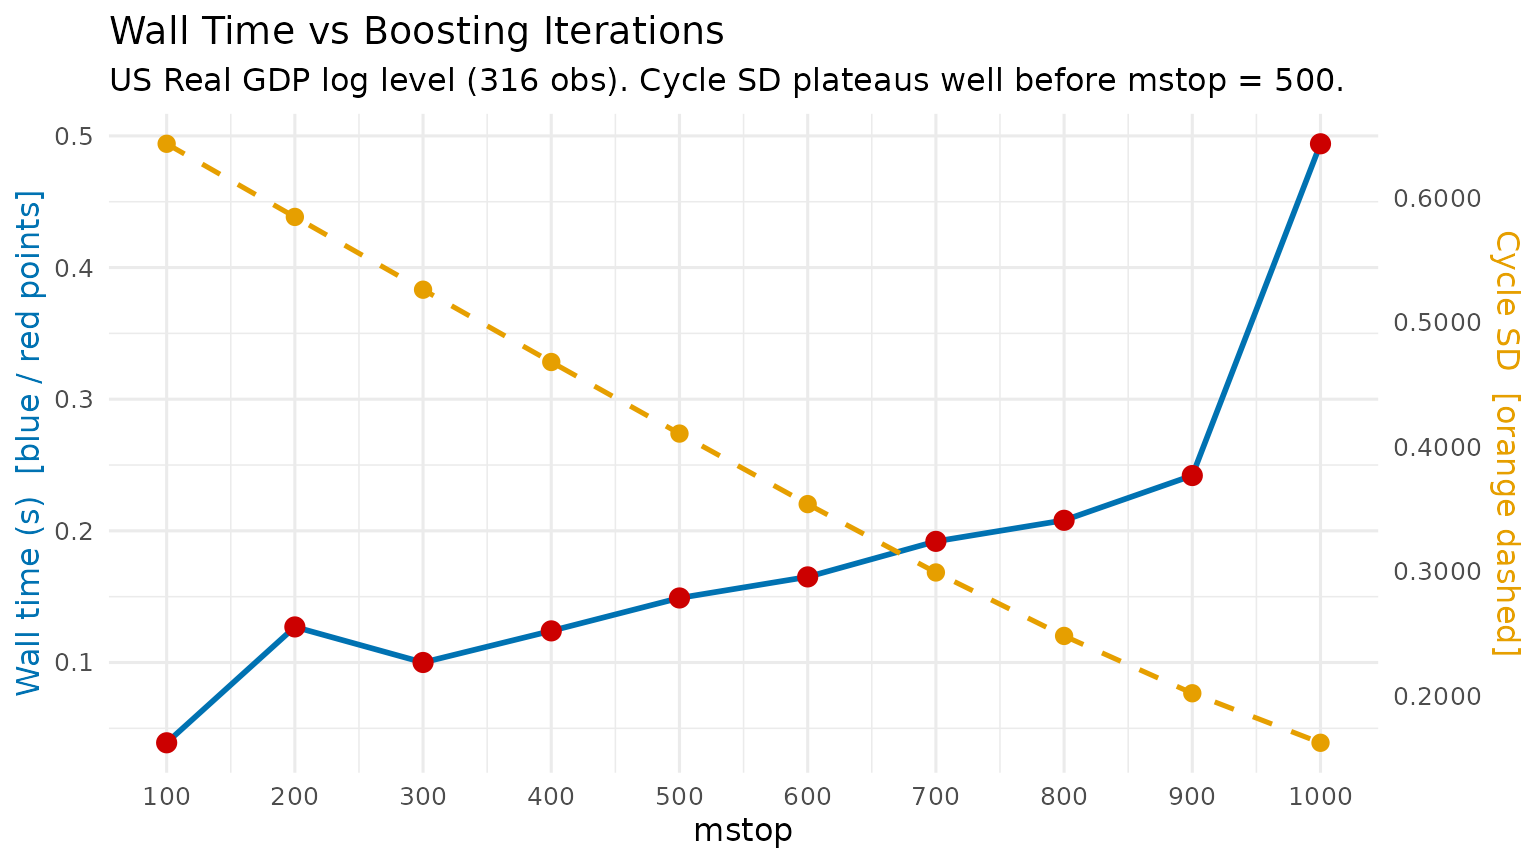
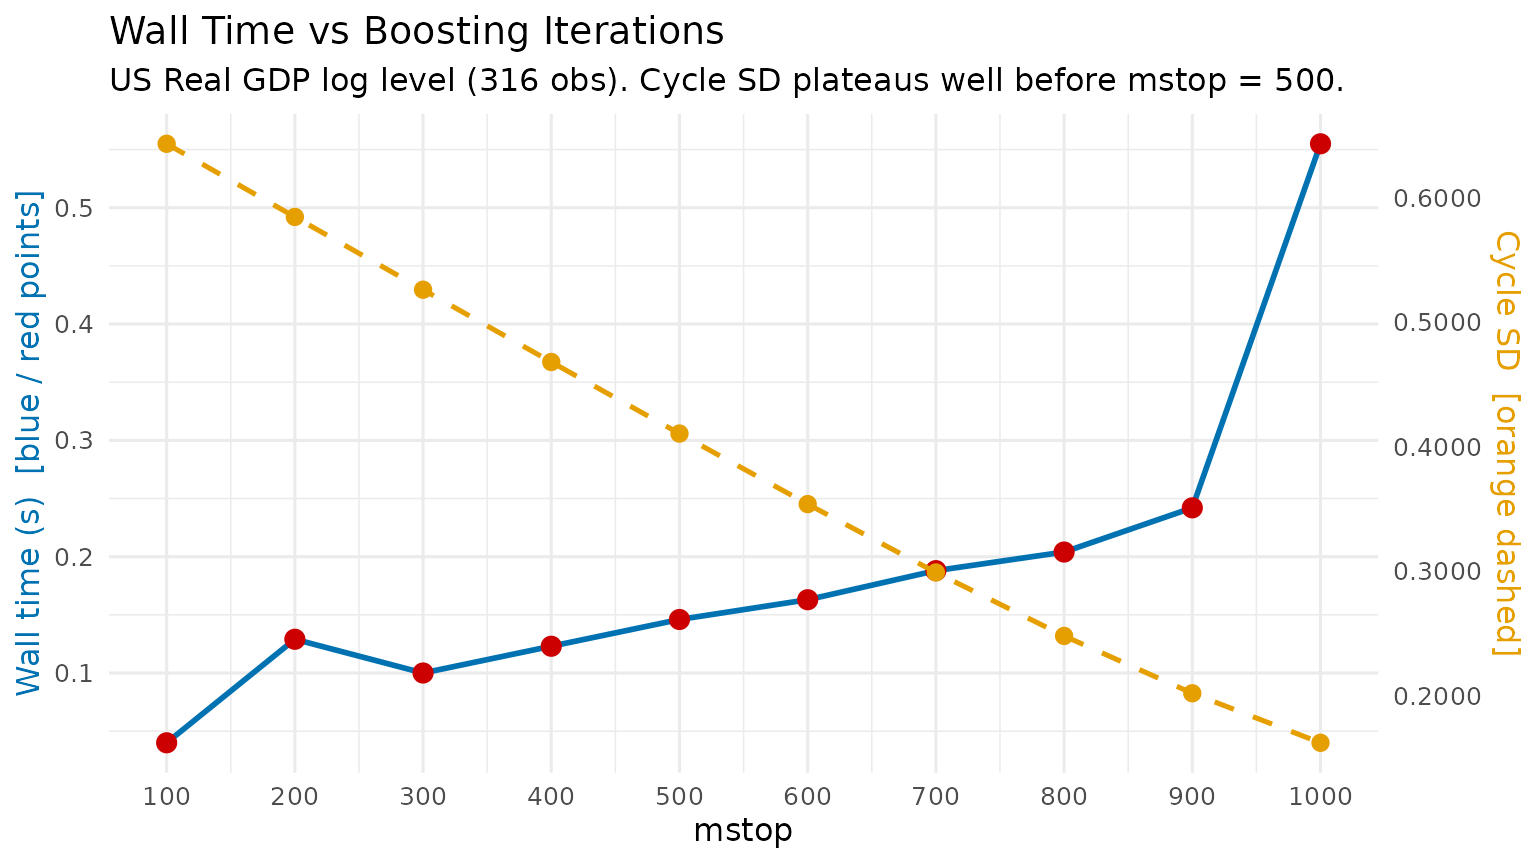
Deploying to gh-pages from @ michal0091/MacroFilters@e742c0e3e4cfbb66a2f1d4271f59a380dd16b52b 🚀

diff --git a/articles/tuning_mbh.html b/articles/tuning_mbh.html
@@ -25,7 +25,7 @@
 
     <a class="navbar-brand me-2" href="../index.html">MacroFilters</a>
 
-    <small class="nav-text text-muted me-auto" data-bs-toggle="tooltip" data-bs-placement="bottom" title="">0.0.0.9000</small>
+    <small class="nav-text text-muted me-auto" data-bs-toggle="tooltip" data-bs-placement="bottom" title="">0.1.0</small>
 
 
     <button class="navbar-toggler" type="button" data-bs-toggle="collapse" data-bs-target="#navbar" aria-controls="navbar" aria-expanded="false" aria-label="Toggle navigation">
@@ -336,12 +336,12 @@ boosting and the trend responds to the COVID shock.</li>
 <tbody>
 <tr class="odd">
 <td align="right">100</td>
-<td align="right">0.039</td>
+<td align="right">0.040</td>
 <td align="right">0.643260</td>
 </tr>
 <tr class="even">
 <td align="right">200</td>
-<td align="right">0.127</td>
+<td align="right">0.129</td>
 <td align="right">0.584503</td>
 </tr>
 <tr class="odd">
@@ -351,27 +351,27 @@ boosting and the trend responds to the COVID shock.</li>
 </tr>
 <tr class="even">
 <td align="right">400</td>
-<td align="right">0.124</td>
+<td align="right">0.123</td>
 <td align="right">0.467963</td>
 </tr>
 <tr class="odd">
 <td align="right">500</td>
-<td align="right">0.149</td>
+<td align="right">0.146</td>
 <td align="right">0.410462</td>
 </tr>
 <tr class="even">
 <td align="right">600</td>
-<td align="right">0.165</td>
+<td align="right">0.163</td>
 <td align="right">0.353805</td>
 </tr>
 <tr class="odd">
 <td align="right">700</td>
-<td align="right">0.192</td>
+<td align="right">0.188</td>
 <td align="right">0.298887</td>
 </tr>
 <tr class="even">
 <td align="right">800</td>
-<td align="right">0.208</td>
+<td align="right">0.204</td>
 <td align="right">0.247910</td>
 </tr>
 <tr class="odd">
@@ -381,7 +381,7 @@ boosting and the trend responds to the COVID shock.</li>
 </tr>
 <tr class="even">
 <td align="right">1000</td>
-<td align="right">0.494</td>
+<td align="right">0.555</td>
 <td align="right">0.162069</td>
 </tr>
 </tbody>

diff --git a/articles/introduction.html b/articles/introduction.html
@@ -25,7 +25,7 @@
 
     <a class="navbar-brand me-2" href="../index.html">MacroFilters</a>
 
-    <small class="nav-text text-muted me-auto" data-bs-toggle="tooltip" data-bs-placement="bottom" title="">0.0.0.9000</small>
+    <small class="nav-text text-muted me-auto" data-bs-toggle="tooltip" data-bs-placement="bottom" title="">0.1.0</small>
 
 
     <button class="navbar-toggler" type="button" data-bs-toggle="collapse" data-bs-target="#navbar" aria-controls="navbar" aria-expanded="false" aria-label="Toggle navigation">
@@ -207,7 +207,7 @@ and memory.</p>
 <span><span class="co">#&gt;    Observations : 100</span></span>
 <span><span class="co">#&gt;    Parameters   : lambda = 1600</span></span>
 <span><span class="co">#&gt;    Cycle range  : [-7.738, 9.143]  sd = 3.897</span></span>
-<span><span class="co">#&gt;    Compute time : 0.002 s</span></span></code></pre></div>
+<span><span class="co">#&gt;    Compute time : 0.003 s</span></span></code></pre></div>
 <p>The smoothing parameter
 <math display="inline" xmlns="http://www.w3.org/1998/Math/MathML"><semantics><mi>λ</mi><annotation encoding="application/x-tex">\lambda</annotation></semantics></math>
 is auto-selected from the series frequency via the Ravn-Uhlig (2002)
@@ -256,7 +256,7 @@ estimates by construction</p>
 <span><span class="co">#&gt;    Observations : 100</span></span>
 <span><span class="co">#&gt;    Parameters   : h = 8, p = 4</span></span>
 <span><span class="co">#&gt;    Cycle range  : [-13.41, 11.8]  sd = 7.212</span></span>
-<span><span class="co">#&gt;    Compute time : 0.000 s</span></span></code></pre></div>
+<span><span class="co">#&gt;    Compute time : 0.001 s</span></span></code></pre></div>
 <p>Note that the first
 <math display="inline" xmlns="http://www.w3.org/1998/Math/MathML"><semantics><mrow><mi>h</mi><mo>+</mo><mi>p</mi><mo>−</mo><mn>1</mn></mrow><annotation encoding="application/x-tex">h + p - 1</annotation></semantics></math>
 observations of the trend and cycle are <code>NA</code>, because there
@@ -466,7 +466,7 @@ dates.</p>
 <span><span class="co">#&gt;    Observations : 80</span></span>
 <span><span class="co">#&gt;    Parameters   : knots = 40, d = 2.789, mstop = 500, mstop_initial = 500, nu = 0.1, df = 4, select_mstop = FALSE</span></span>
 <span><span class="co">#&gt;    Cycle range  : [-26.64, 4.429]  sd = 4.087</span></span>
-<span><span class="co">#&gt;    Compute time : 0.124 s</span></span></code></pre></div>
+<span><span class="co">#&gt;    Compute time : 0.121 s</span></span></code></pre></div>
 <p><img src="introduction_files/figure-html/mbh-plot-1.png" class="r-plt" alt="" width="100%"></p>
 <hr>
 </div>
@@ -514,7 +514,7 @@ dates.</p>
 <span><span class="co">#&gt;    Observations : 80</span></span>
 <span><span class="co">#&gt;    Parameters   : knots = 40, d = 2.789, mstop = 500, mstop_initial = 500, nu = 0.1, df = 4, select_mstop = FALSE</span></span>
 <span><span class="co">#&gt;    Cycle range  : [-26.64, 4.429]  sd = 4.087</span></span>
-<span><span class="co">#&gt;    Compute time : 0.124 s</span></span></code></pre></div>
+<span><span class="co">#&gt;    Compute time : 0.121 s</span></span></code></pre></div>
 <p>The <code>print</code> method shows the method, the number of
 observations, the key parameters, the cycle range, and how long the
 filter took to run.</p>
@@ -549,7 +549,7 @@ filter took to run.</p>
 <span><span class="co">#&gt;  $ df            : int 4</span></span>
 <span><span class="co">#&gt;  $ select_mstop  : logi FALSE</span></span>
 <span><span class="co">#&gt;  $ boundary.knots: NULL</span></span>
-<span><span class="co">#&gt;  $ compute_time  : num 0.124</span></span></code></pre></div>
+<span><span class="co">#&gt;  $ compute_time  : num 0.121</span></span></code></pre></div>
 <p>The <code>meta</code> list stores every parameter used by the filter,
 making results fully reproducible from the object alone — no need to
 track arguments separately.</p>

diff --git a/reference/hp_filter.html b/reference/hp_filter.html
@@ -13,7 +13,7 @@ scales linearly in the number of observations."><meta property="og:image" conten
 
     <a class="navbar-brand me-2" href="../index.html">MacroFilters</a>
 
-    <small class="nav-text text-muted me-auto" data-bs-toggle="tooltip" data-bs-placement="bottom" title="">0.0.0.9000</small>
+    <small class="nav-text text-muted me-auto" data-bs-toggle="tooltip" data-bs-placement="bottom" title="">0.1.0</small>
 
 
     <button class="navbar-toggler" type="button" data-bs-toggle="collapse" data-bs-target="#navbar" aria-controls="navbar" aria-expanded="false" aria-label="Toggle navigation">
@@ -114,7 +114,7 @@ for the Frequency of Observations. <em>Review of Economics and Statistics</em>,
 <span class="r-out co"><span class="r-pr">#&gt;</span>    Observations : 200</span>
 <span class="r-out co"><span class="r-pr">#&gt;</span>    Parameters   : lambda = 1600</span>
 <span class="r-out co"><span class="r-pr">#&gt;</span>    Cycle range  : [-2.878, 3.83]  sd = 1.388</span>
-<span class="r-out co"><span class="r-pr">#&gt;</span>    Compute time : 0.002 s</span>
+<span class="r-out co"><span class="r-pr">#&gt;</span>    Compute time : 0.003 s</span>
 </code></pre></div>
     </div>
   </main><aside class="col-md-3"><nav id="toc" aria-label="Table of contents"><h2>On this page</h2>

diff --git a/reference/mbh_filter.html b/reference/mbh_filter.html
@@ -13,7 +13,7 @@ them from distorting the trend."><meta property="og:image" content="https://mich
 
     <a class="navbar-brand me-2" href="../index.html">MacroFilters</a>
 
-    <small class="nav-text text-muted me-auto" data-bs-toggle="tooltip" data-bs-placement="bottom" title="">0.0.0.9000</small>
+    <small class="nav-text text-muted me-auto" data-bs-toggle="tooltip" data-bs-placement="bottom" title="">0.1.0</small>
 
 
     <button class="navbar-toggler" type="button" data-bs-toggle="collapse" data-bs-target="#navbar" aria-controls="navbar" aria-expanded="false" aria-label="Toggle navigation">
@@ -205,7 +205,7 @@ observations. Keep <code>df = 4</code> (the default) for real-time applications.
 <span class="r-out co"><span class="r-pr">#&gt;</span>    Observations : 200</span>
 <span class="r-out co"><span class="r-pr">#&gt;</span>    Parameters   : knots = 100, d = 0.9445, mstop = 500, mstop_initial = 500, nu = 0.1, df = 4, select_mstop = FALSE</span>
 <span class="r-out co"><span class="r-pr">#&gt;</span>    Cycle range  : [-4.17, 5.05]  sd = 1.721</span>
-<span class="r-out co"><span class="r-pr">#&gt;</span>    Compute time : 0.145 s</span>
+<span class="r-out co"><span class="r-pr">#&gt;</span>    Compute time : 0.143 s</span>
 </code></pre></div>
     </div>
   </main><aside class="col-md-3"><nav id="toc" aria-label="Table of contents"><h2>On this page</h2>

diff --git a/404.html b/404.html
@@ -26,7 +26,7 @@
 
     <a class="navbar-brand me-2" href="https://michal0091.github.io/MacroFilters/index.html">MacroFilters</a>
 
-    <small class="nav-text text-muted me-auto" data-bs-toggle="tooltip" data-bs-placement="bottom" title="">0.0.0.9000</small>
+    <small class="nav-text text-muted me-auto" data-bs-toggle="tooltip" data-bs-placement="bottom" title="">0.1.0</small>
 
 
     <button class="navbar-toggler" type="button" data-bs-toggle="collapse" data-bs-target="#navbar" aria-controls="navbar" aria-expanded="false" aria-label="Toggle navigation">

diff --git a/CONTRIBUTING.html b/CONTRIBUTING.html
@@ -7,7 +7,7 @@
 
     <a class="navbar-brand me-2" href="index.html">MacroFilters</a>
 
-    <small class="nav-text text-muted me-auto" data-bs-toggle="tooltip" data-bs-placement="bottom" title="">0.0.0.9000</small>
+    <small class="nav-text text-muted me-auto" data-bs-toggle="tooltip" data-bs-placement="bottom" title="">0.1.0</small>
 
 
     <button class="navbar-toggler" type="button" data-bs-toggle="collapse" data-bs-target="#navbar" aria-controls="navbar" aria-expanded="false" aria-label="Toggle navigation">

diff --git a/LICENSE-text.html b/LICENSE-text.html
@@ -7,7 +7,7 @@
 
     <a class="navbar-brand me-2" href="index.html">MacroFilters</a>
 
-    <small class="nav-text text-muted me-auto" data-bs-toggle="tooltip" data-bs-placement="bottom" title="">0.0.0.9000</small>
+    <small class="nav-text text-muted me-auto" data-bs-toggle="tooltip" data-bs-placement="bottom" title="">0.1.0</small>
 
 
     <button class="navbar-toggler" type="button" data-bs-toggle="collapse" data-bs-target="#navbar" aria-controls="navbar" aria-expanded="false" aria-label="Toggle navigation">

diff --git a/LICENSE.html b/LICENSE.html
@@ -7,7 +7,7 @@
 
     <a class="navbar-brand me-2" href="index.html">MacroFilters</a>
 
-    <small class="nav-text text-muted me-auto" data-bs-toggle="tooltip" data-bs-placement="bottom" title="">0.0.0.9000</small>
+    <small class="nav-text text-muted me-auto" data-bs-toggle="tooltip" data-bs-placement="bottom" title="">0.1.0</small>
 
 
     <button class="navbar-toggler" type="button" data-bs-toggle="collapse" data-bs-target="#navbar" aria-controls="navbar" aria-expanded="false" aria-label="Toggle navigation">

diff --git a/articles/index.html b/articles/index.html
@@ -7,7 +7,7 @@
 
     <a class="navbar-brand me-2" href="../index.html">MacroFilters</a>
 
-    <small class="nav-text text-muted me-auto" data-bs-toggle="tooltip" data-bs-placement="bottom" title="">0.0.0.9000</small>
+    <small class="nav-text text-muted me-auto" data-bs-toggle="tooltip" data-bs-placement="bottom" title="">0.1.0</small>
 
 
     <button class="navbar-toggler" type="button" data-bs-toggle="collapse" data-bs-target="#navbar" aria-controls="navbar" aria-expanded="false" aria-label="Toggle navigation">

diff --git a/articles/real_time_revisions.html b/articles/real_time_revisions.html
@@ -25,7 +25,7 @@
 
     <a class="navbar-brand me-2" href="../index.html">MacroFilters</a>
 
-    <small class="nav-text text-muted me-auto" data-bs-toggle="tooltip" data-bs-placement="bottom" title="">0.0.0.9000</small>
+    <small class="nav-text text-muted me-auto" data-bs-toggle="tooltip" data-bs-placement="bottom" title="">0.1.0</small>
 
 
     <button class="navbar-toggler" type="button" data-bs-toggle="collapse" data-bs-target="#navbar" aria-controls="navbar" aria-expanded="false" aria-label="Toggle navigation">

diff --git a/authors.html b/authors.html
@@ -7,7 +7,7 @@
 
     <a class="navbar-brand me-2" href="index.html">MacroFilters</a>
 
-    <small class="nav-text text-muted me-auto" data-bs-toggle="tooltip" data-bs-placement="bottom" title="">0.0.0.9000</small>
+    <small class="nav-text text-muted me-auto" data-bs-toggle="tooltip" data-bs-placement="bottom" title="">0.1.0</small>
 
 
     <button class="navbar-toggler" type="button" data-bs-toggle="collapse" data-bs-target="#navbar" aria-controls="navbar" aria-expanded="false" aria-label="Toggle navigation">

diff --git a/index.html b/index.html
@@ -28,7 +28,7 @@
 
     <a class="navbar-brand me-2" href="index.html">MacroFilters</a>
 
-    <small class="nav-text text-muted me-auto" data-bs-toggle="tooltip" data-bs-placement="bottom" title="">0.0.0.9000</small>
+    <small class="nav-text text-muted me-auto" data-bs-toggle="tooltip" data-bs-placement="bottom" title="">0.1.0</small>
 
 
     <button class="navbar-toggler" type="button" data-bs-toggle="collapse" data-bs-target="#navbar" aria-controls="navbar" aria-expanded="false" aria-label="Toggle navigation">